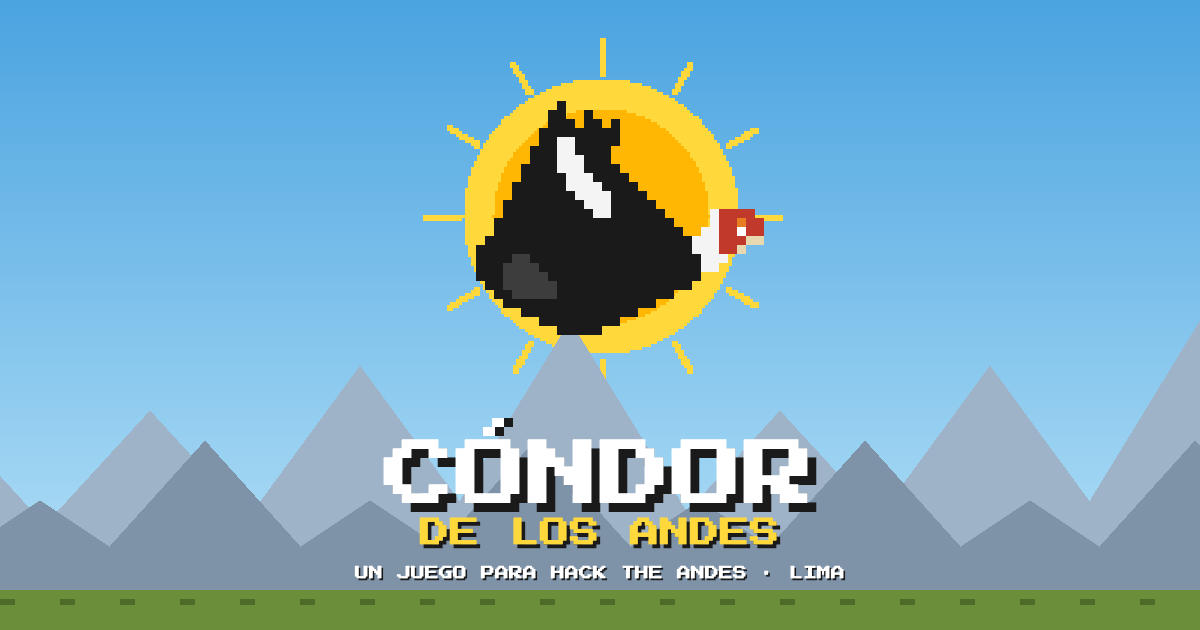
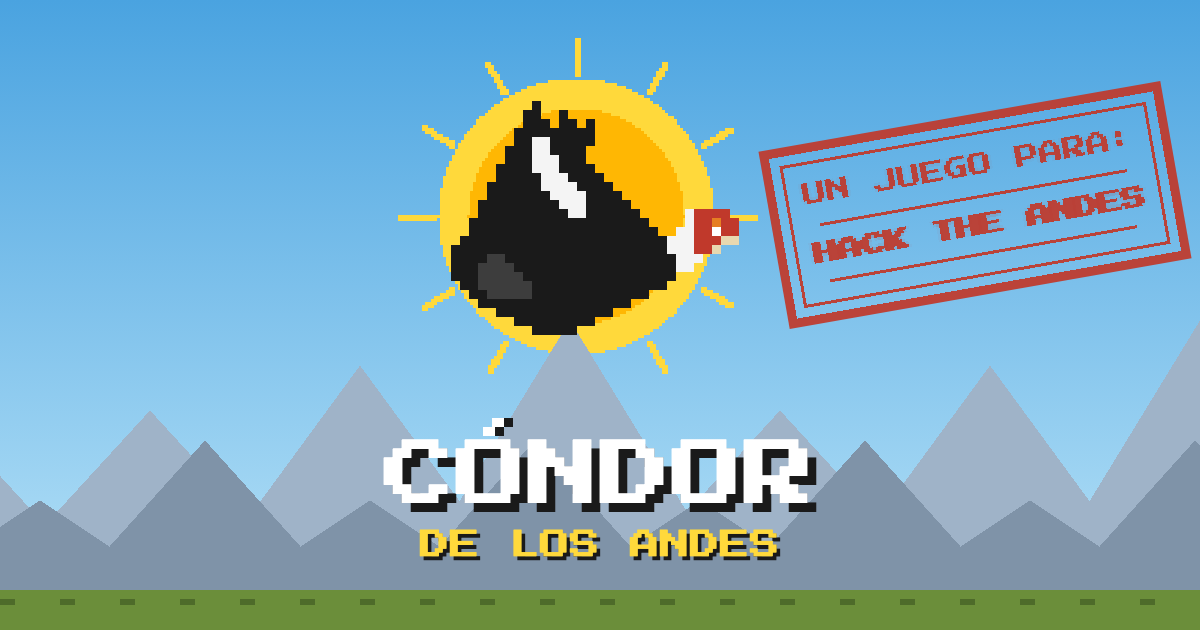
feat: Hack the Andes passport stamp on the cover

Changed region(s): [[0.3392, 0.0603, 1.0, 0.6032], [0.2775, 0.8143, 0.7092, 0.9349]]

diff --git a/cover.html b/cover.html
@@ -14,21 +14,33 @@ function rays(cx, cy, r0, r1, s, n = 12) { ctx.fillStyle = t.sun; for (let a = 0
 function tri(col, x, base, h, hw) { ctx.fillStyle = col; for (let i = 0; i < h; i++) { const w = Math.max(1, Math.round(hw * (h - i) / h)); ctx.fillRect(x - w, base - i, 2 * w, 1); } }
 function text(s, x, y, size, col, shadow) { ctx.font = `${size}px "Press Start 2P"`; ctx.textAlign = 'center'; ctx.textBaseline = 'top'; if (shadow) { ctx.fillStyle = shadow; ctx.fillText(s, x + size / 8, y + size / 8); } ctx.fillStyle = col; ctx.fillText(s, x, y); }
 
+// passport-visa stamp, drawn at 1x on a small canvas then upscaled ×3 and rotated with smoothing off (keeps pixels chunky)
+function stamp(cx, cy, deg) {
+  const o = document.createElement('canvas'); o.width = 136; o.height = 60; const g = o.getContext('2d'); const ink = '#c0392b';
+  g.fillStyle = ink; g.fillRect(0, 0, 136, 60); g.clearRect(3, 3, 130, 54); g.fillRect(6, 6, 124, 48); g.clearRect(7, 7, 122, 46);
+  for (let x = 10; x < 128; x += 6) { g.fillRect(x, 1, 2, 1); g.fillRect(x, 58, 2, 1); } // perforated edge
+  g.font = '8px "Press Start 2P"'; g.textAlign = 'center'; g.textBaseline = 'top'; g.fillStyle = ink;
+  g.fillText('UN JUEGO PARA:', 68, 13); g.fillText('HACK THE ANDES', 68, 33); g.fillText('HACK THE ANDES', 69, 33); // faux bold
+  g.fillRect(16, 27, 104, 1); g.fillRect(16, 46, 104, 1);
+  ctx.save(); ctx.translate(cx, cy); ctx.rotate(deg * Math.PI / 180); ctx.imageSmoothingEnabled = false; ctx.globalAlpha = 0.92;
+  ctx.drawImage(o, -68 * 3, -30 * 3, 136 * 3, 60 * 3); ctx.restore();
+}
+
 await document.fonts.load('10px "Press Start 2P"');
 if (kind === 'cover') {
   c.width = 1200; c.height = 630;
   const g = ctx.createLinearGradient(0, 0, 0, 630); g.addColorStop(0, t.sky0); g.addColorStop(1, t.sky1); ctx.fillStyle = g; ctx.fillRect(0, 0, 1200, 630);
   // sun with rays, condor silhouetted across it
-  rays(600, 215, 48, 60, 3); disc(600, 215, 46, t.sun, 3); disc(600, 215, 36, t.sunCore, 3);
+  rays(575, 215, 48, 60, 3); disc(575, 215, 46, t.sun, 3); disc(575, 215, 36, t.sunCore, 3);
   // far mountains + ground
   for (let x = -60; x < 1300; x += 210) tri(t.far2, x, 590, 180 + (x / 210 | 0) % 3 * 45, 165);
   for (let x = 40; x < 1300; x += 165) tri(t.far, x, 590, 90 + (x / 165 | 0) % 2 * 60, 135);
   ctx.fillStyle = t.ground; ctx.fillRect(0, 590, 1200, 40); ctx.fillStyle = t.groundDark; for (let x = 0; x < 1200; x += 60) ctx.fillRect(x, 599, 15, 6);
-  px(GLIDE, PAL.normal, 600 - 16 * 9 + 20, 215 - 16 * 9 + 30, 9);
+  px(GLIDE, PAL.normal, 575 - 16 * 9 + 20, 215 - 16 * 9 + 30, 9);
   // title: CONDOR + painted accent (font has no Ó)
   text('CONDOR', 600, 440, 72, '#ffffff', '#1a1a1a'); ctx.fillStyle = '#1a1a1a'; ctx.fillRect(492, 427, 12, 9); ctx.fillRect(501, 418, 12, 9); ctx.fillStyle = '#ffffff'; ctx.fillRect(483, 427, 12, 9); ctx.fillRect(492, 418, 12, 9);
-  text('DE LOS ANDES', 600, 518, 30, t.sun, '#1a1a1a');
-  text('UN JUEGO PARA HACK THE ANDES · LIMA', 600, 566, 14, '#ffffff', '#1a1a1a');
+  text('DE LOS ANDES', 600, 530, 30, t.sun, '#1a1a1a');
+  stamp(975, 205, -10);
 } else {
   // logo badge: sun disc + condor on a 48-px grid, upscaled nearest-neighbour (favicon / apple-touch-icon / logo.png)
   c.width = c.height = size; const off = document.createElement('canvas'); off.width = off.height = 48; const o = off.getContext('2d');

diff --git a/index.html b/index.html
@@ -10,13 +10,13 @@
 <meta property="og:url" content="https://condor-andes.pages.dev/">
 <meta property="og:title" content="Cóndor de los Andes">
 <meta property="og:description" content="Juego para Hack the Andes (Lima). Vuela el cóndor, junta 5 monedas y entra al ULTRA ANDES. ¿Llegas al TOP CONDORES?">
-<meta property="og:image" content="https://condor-andes.pages.dev/og.png?v=3">
+<meta property="og:image" content="https://condor-andes.pages.dev/og.png?v=4">
 <meta property="og:image:width" content="1200">
 <meta property="og:image:height" content="630">
 <meta name="twitter:card" content="summary_large_image">
 <meta name="twitter:title" content="Cóndor de los Andes">
 <meta name="twitter:description" content="Juego para Hack the Andes (Lima). Vuela el cóndor, junta 5 monedas y entra al ULTRA ANDES. ¿Llegas al TOP CONDORES?">
-<meta name="twitter:image" content="https://condor-andes.pages.dev/og.png?v=3">
+<meta name="twitter:image" content="https://condor-andes.pages.dev/og.png?v=4">
 <link rel="icon" type="image/png" href="favicon.png?v=2">
 <link rel="apple-touch-icon" href="apple-touch-icon.png?v=2">
 <link rel="preconnect" href="https://fonts.googleapis.com">
